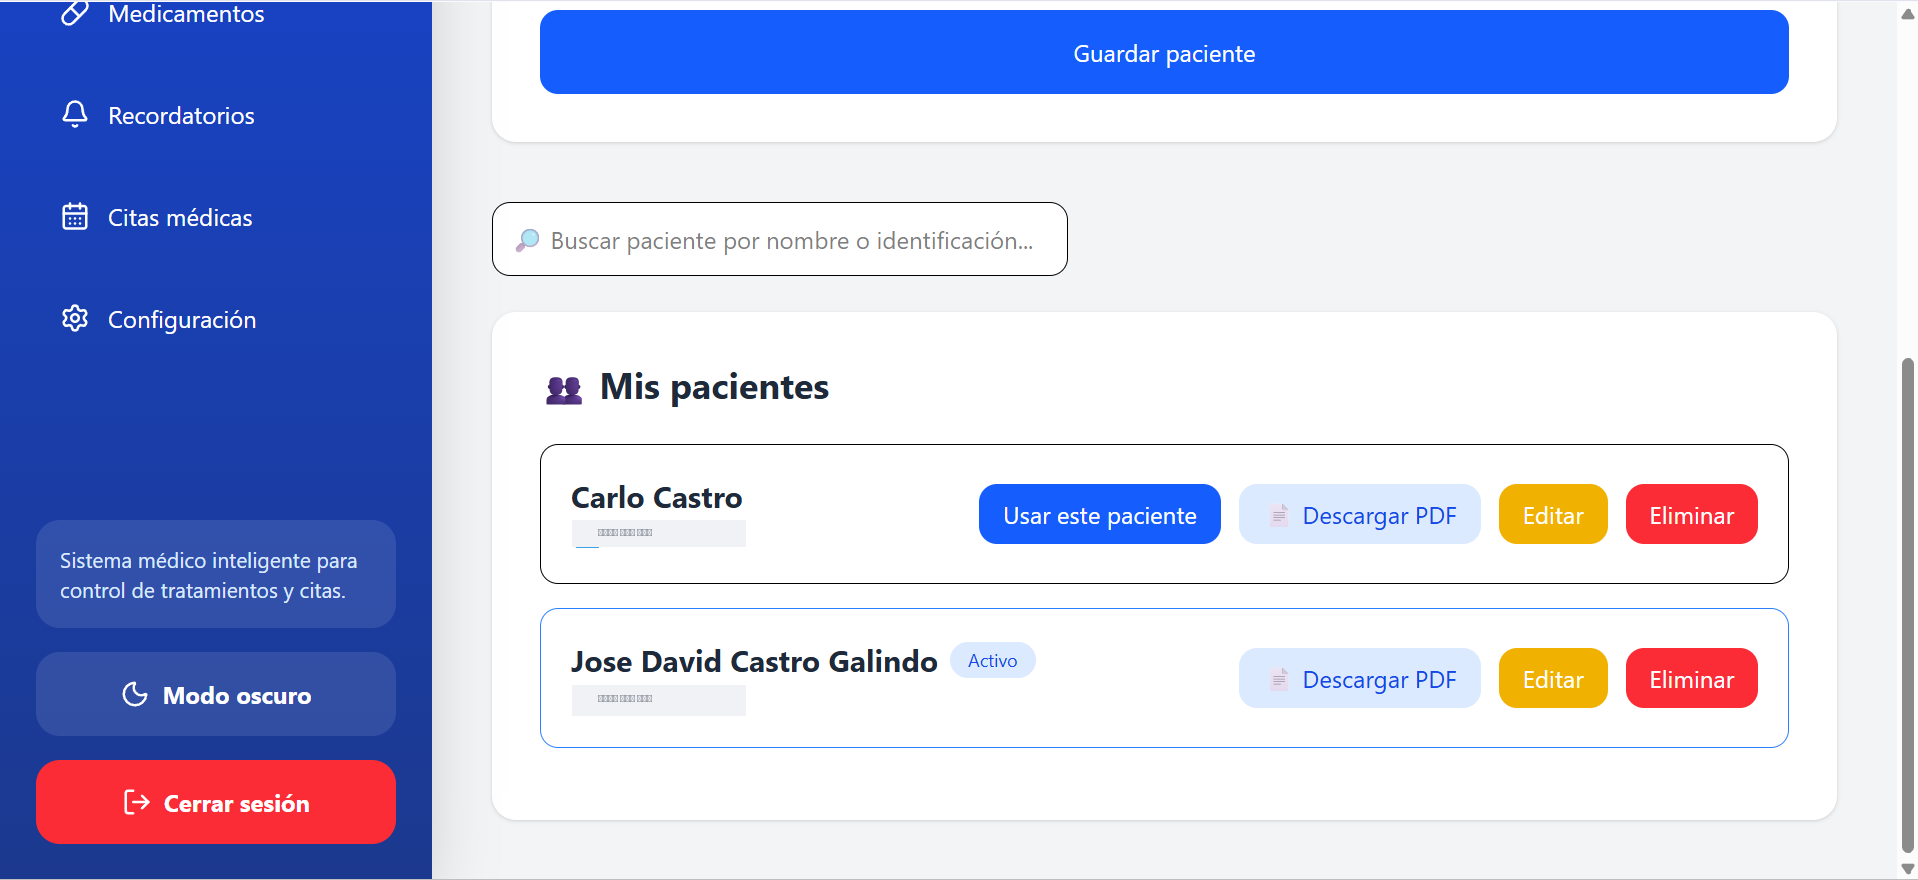
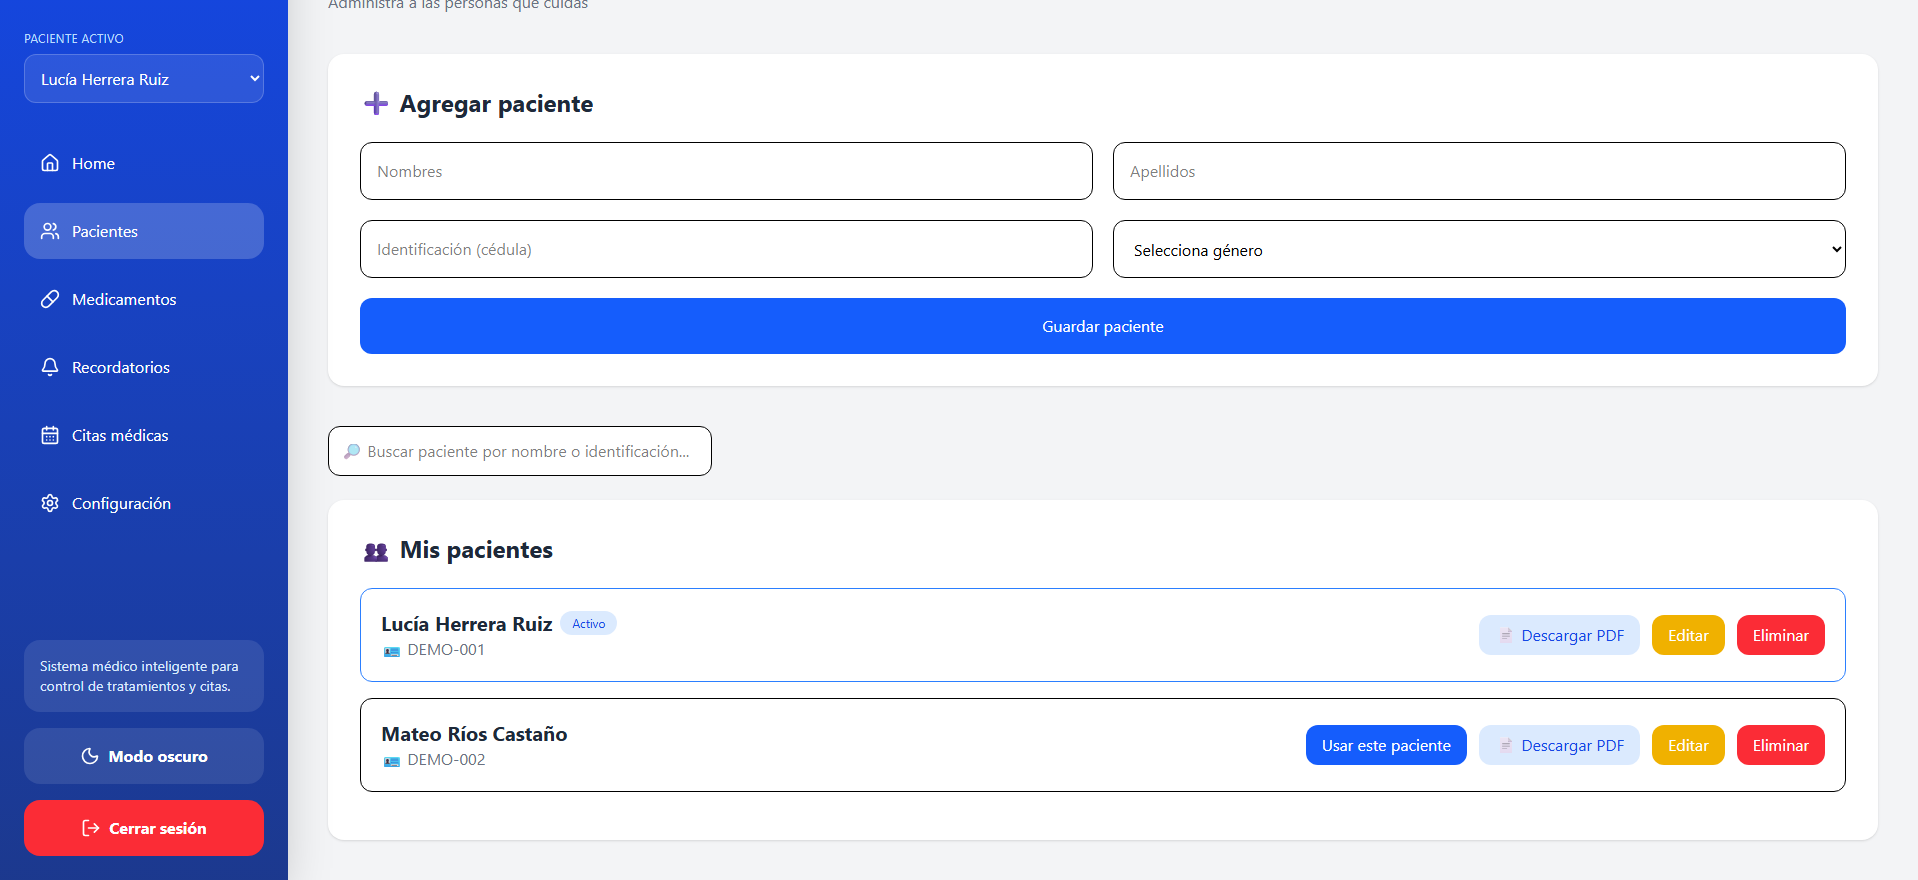
docs: capturas y demo del README con datos inventados
Las capturas anteriores mostraban nombres y números de cédula de personas
reales. Se reemplazan por capturas y un GIF nuevos hechos con datos de
demostración inventados (pacientes DEMO-001 y DEMO-002, médicos "Demo"),
sembrados a través de la API sobre una base de datos de demo aparte: la
base de datos real no se usó.

- docs/demo.gif: recorrido de inicio de sesión, pacientes, citas,
  medicamentos con historial de tomas y recordatorios en modo oscuro
  (1,3 MB frente a 4 MB).
- docs/home.png, pacientes.png y recordatorios.png al mismo tamaño que
  las anteriores (1918x880).
- README: nota de que las capturas usan datos inventados.
- MEMORY.md: aprendizaje sobre capturas sin datos reales.

diff --git a/MEMORY.md b/MEMORY.md
@@ -14,6 +14,7 @@ Memoria del proyecto entre sesiones. Máximo ~50 líneas: resume o elimina lo qu
 - Zona horaria (2026-10-03): con `TIME_ZONE='UTC'` y `date.today()`/`datetime.now()`, la fecha de fin de un medicamento editado salía un día tarde si se creó después de las 19:00, el PDF mostraba horas en UTC y todo dependía del reloj del equipo. Corregido con `TIME_ZONE` configurable y `timezone.localdate()`/`localtime()`.
 - La sospecha de recordatorios duplicados o saltados era falsa: el desfase se compensaba solo. Lección: reproducir con un test antes de afirmar un fallo.
 - El comando de WhatsApp se caía al escribir 💊 si la salida iba a un archivo cp1252; ahora reemplaza los caracteres que no caben.
+- Capturas del README (2026-10-05): las antiguas mostraban nombres y cédulas reales. Ahora usan solo datos inventados (pacientes DEMO-001/002, médicos "Demo"), sembrados por la API sobre una base de datos de demo aparte. Nunca hacer capturas con la base de datos real. Las imágenes antiguas siguen en el historial de git.
 
 ## Próximos pasos
 - Nada pendiente por ahora.

diff --git a/README.md b/README.md
@@ -4,6 +4,8 @@ Aplicación web para que un **cuidador** administre los medicamentos, recordator
 
 ## Capturas
 
+_Capturas hechas con datos de demostración inventados._
+
 ![Demo de MedAlert](docs/demo.gif)
 
 | Home | Pacientes | Recordatorios |
